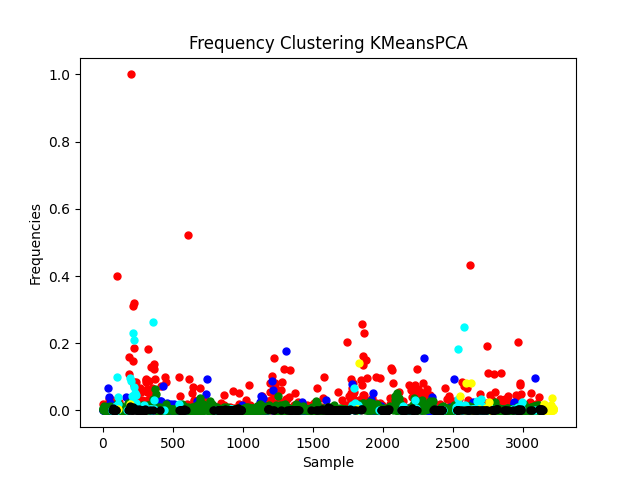
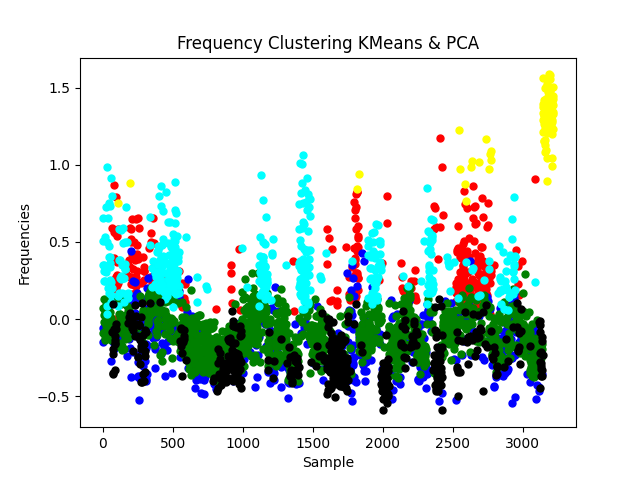
adding files, cleaning script

diff --git a/src/dbscan.py b/src/dbscan.py
@@ -1,12 +1,76 @@
 import pandas as pd
 import config
 from sklearn.decomposition import PCA
-from sklearn.cluster import KMeans
-import data
+from sklearn.cluster import DBSCAN
+
+# import data
+import numpy as np
+import matplotlib.pyplot as plt
+import pandas as pd
+from sklearn.neighbors import NearestNeighbors
+
+"""
+epsilon and minPoints. Epsilon is the radius of the circle to be created around each
+data point to check the density and minPoints is the minimum number of 
+data points required inside that circle for that data point to be classified as a Core point.
+"""
+
+
+class DBSACNModel:
+    def __init__(self, data):
+        self.data = data
+
+    def pca_model(self):
+        return PCA(n_components=7).fit_transform(self.data)
+
+    def find_epsilon(self):
+        pca = self.pca_model()
+        neighbors = NearestNeighbors(n_neighbors=7)
+        neighbors_fit = neighbors.fit(pca)
+        distances, _ = neighbors_fit.kneighbors(pca)
+        distances = np.sort(distances, axis=0)
+        distances = distances[:, 1]
+        plt.plot(distances)
+        plt.title("Optimal Epsilon using KNN")
+        plt.ylabel("Epsilon (Distance)")
+        plt.xlabel("Data Points sorted by Distance")
+        plt.savefig("../plots/optimal_epsilon.png")
+        plt.show()
+
+    def plot_dbscan(self):
+        pca = self.pca_model()
+        # instatiate the DBSCAN
+        dbscan = DBSCAN(eps=0.22, min_samples=16).fit(pca)
+        core_samples_mask = np.zeros_like(dbscan.labels_)
+        core_samples_mask[dbscan.core_sample_indices_] = True
+        labels = dbscan.labels_
+        n_clusters = len(set(labels)) - (1 if -1 in labels else 0)
+        print(f"Estimated number of clusters: {n_clusters}")
+        for i in range(0, n_clusters):
+            color = ["green", "blue", "red"]
+            label = [
+                "Cluster1",
+                "Cluster2",
+                "Cluster3",
+            ]
+            plt.scatter(
+                np.where(labels == i),
+                pca[labels == i, 0],
+                s=25,
+                c=color[i],
+                label=label[i],
+            )
+
+        plt.title("Frequency Clustering DBSCAN & PCA")
+        plt.xlabel("Sample")
+        plt.ylabel("Frequencies")
+        plt.legend()
+        plt.show()
 
 
 if __name__ == "__main__":
-    df = pd.read_csv(config.TRAINING_FILE)
-    df = data.clean_data(df)
-    df.columns = data.clean_colname(df)
-    df.to_csv(config.TESTING_FILE, index_label="State_City")
+    df = pd.read_csv(config.TESTING_FILE)
+    df = df.set_index("State_City")
+    model = DBSACNModel(df)
+    model.find_epsilon()
+    model.plot_dbscan()

diff --git a/src/kmean.py b/src/kmean.py
@@ -10,17 +10,21 @@ class PlotKMeans:
     def __init__(self, data):
         self.data = data
 
+    def pca_model(self):
+        return PCA(n_components=7).fit_transform(self.data)
+
     def plot_optimum_cluster(self):
+        pca = self.pca_model()
         iter_num = []
-        for i in range(1, 15):
+        for i in range(1, 10):
             model = KMeans(n_clusters=i, max_iter=500)
-            model.fit(self.data)
+            model.fit(pca)
             iter_num.append(model.inertia_)
-        plt.plot(range(1, 15), iter_num)
+        plt.plot(range(1, 10), iter_num)
         plt.title("Optimal K using Elbow Method")
         plt.xlabel("Number of K")
         plt.ylabel("Number of Iterations")
-        # plt.savefig('../plots/Kmeans_Elbow.png')
+        plt.savefig("../plots/Kmeans_Elbow.png")
         plt.show()
 
 
@@ -29,7 +33,7 @@ class KMeansPCA:
         self.data = data
 
     def plot_pca_kmeans(self):
-        pca = PCA(n_components=6).fit_transform(self.data)
+        pca = PCA(n_components=7).fit_transform(self.data)
         model = KMeans(n_clusters=6)
         model_fit = model.fit(pca)
         labels = model_fit.labels_
@@ -45,15 +49,15 @@ class KMeansPCA:
             ]
             plt.scatter(
                 np.where(labels == i),
-                self.data.iloc[labels == i, 0],
+                pca[labels == i, 0],
                 s=25,
                 c=color[i],
                 label=label[i],
             )
-        plt.title("Frequency Clustering KMeansPCA")
+        plt.title("Frequency Clustering KMeans & PCA")
         plt.xlabel("Sample")
         plt.ylabel("Frequencies")
-        # plt.savefig('../plots/KMeansPCA.png')
+        plt.savefig("../plots/KMeansPCA.png")
         plt.legend()
         plt.show()
 
@@ -64,6 +68,7 @@ if __name__ == "__main__":
 
     plot = PlotKMeans(df)
     plot.plot_optimum_cluster()
+    # K = 6
 
     model = KMeansPCA(df)
     model.plot_pca_kmeans()

diff --git a/src/pca.py b/src/pca.py
@@ -19,8 +19,9 @@ class PCAModel:
         plt.title("N-Components for Explained Variance")
         plt.xlabel("Number of Components")
         plt.ylabel("Cumulative variance (%)")
-        plt.axhline(y=0.95, color="r", linestyle="-")
-        # plt.savefig('../plots/pca_explained_var.png')
+        plt.axhline(y=0.80, color="r", linestyle="-")
+        plt.savefig("../plots/pca_explained_var.png")
+        plt.show()
 
     def plot_pca_bar(self):
         pca = PCA(n_components=15)
@@ -34,12 +35,14 @@ class PCAModel:
         plt.xlabel("Number of Components")
         plt.ylabel("Variance (%)")
         plt.xticks(features)
-        # plt.savefig('../plots/pca_explained_barchart.png')
+        plt.savefig("../plots/pca_explained_barchart.png")
         plt.show()
 
 
 if __name__ == "__main__":
     df = pd.read_csv(config.TESTING_FILE)
     df = df.set_index("State_City")
-    PCAModel(df).plot_pca_var()
-    PCAModel(df).plot_pca_bar()
+    plot_model = PCAModel(df)
+    plot_model.plot_pca_var()
+    plot_model.plot_pca_bar()
+    # Number of PC = 7 that explains 80% of explained variance
